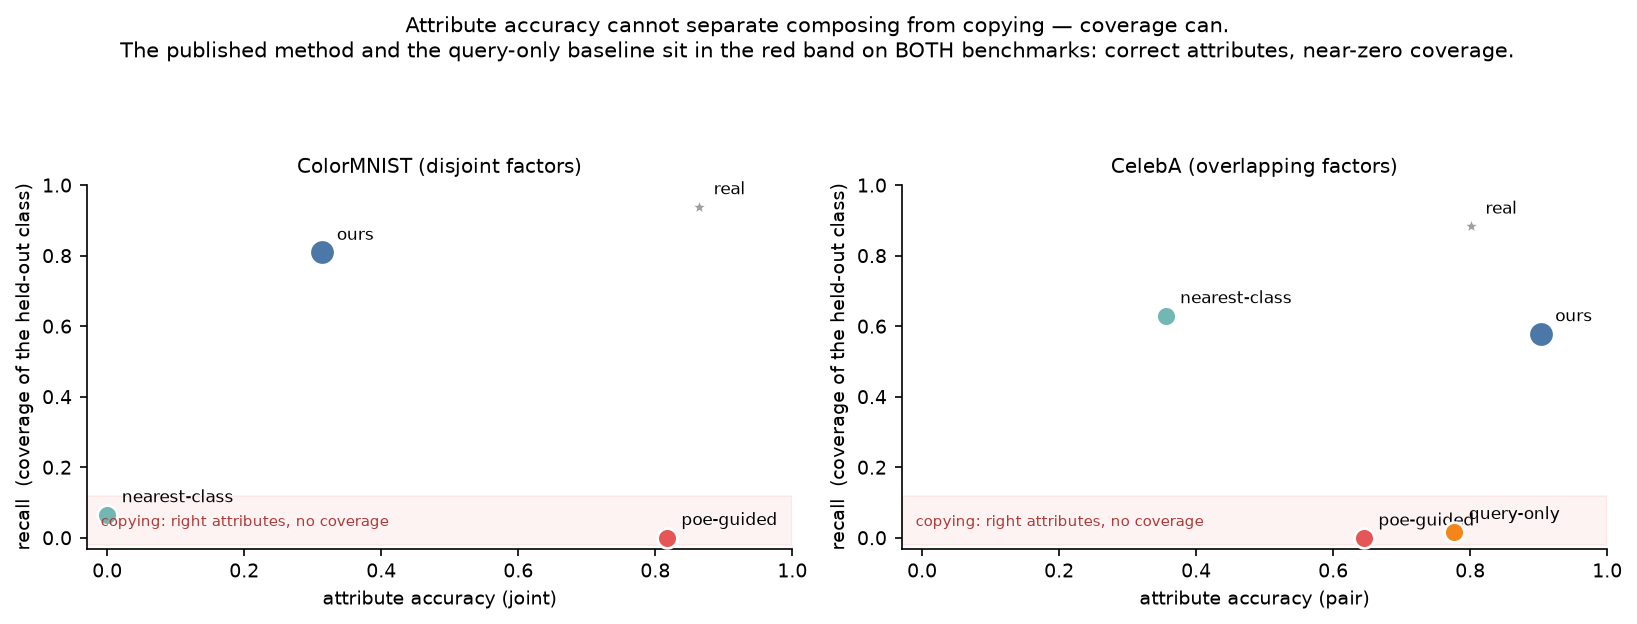
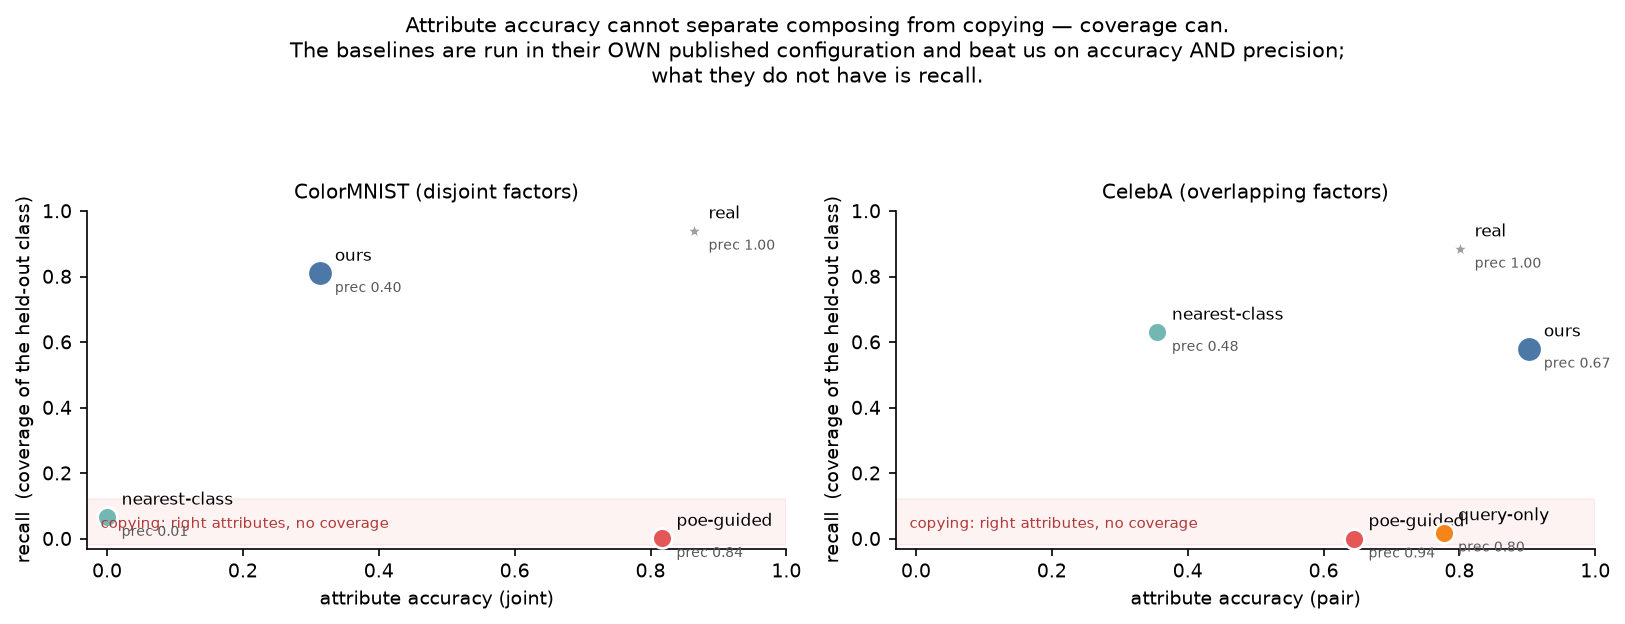
F2 annotates precision; case study and fairness check in the reproduction path
With the baseline in its own configuration the interesting number is no longer
just its recall but its PRECISION: 0.84 on ColorMNIST and 0.94 on CelebA.  Its
samples are plausible members of the target class.  F2 now prints precision beside
every point, so the figure says 'these baselines beat us on accuracy and on
precision, and sit at zero recall' rather than merely 'they are in the red band'.

README numbers re-verified against the regenerated aggregate: 7/7 match.

diff --git a/experiments/make_paper_figures.py b/experiments/make_paper_figures.py
@@ -139,13 +139,21 @@ def f2_coverage_vs_copying(A):
         ax.axhspan(-0.02, 0.12, color="#E45756", alpha=0.07, zorder=0)
         ax.text(0.02, 0.045, "copying: right attributes, no coverage", fontsize=7.2,
                 color="#B03A38", transform=ax.get_yaxis_transform(), va="center")
+        # precision annotated per point: the baselines are not merely accurate, their samples are
+        # PLAUSIBLE members of the class (precision 0.84 / 0.94).  Only coverage separates them.
+        for arm, _c in arms:
+            x_, y_ = m(tbl, arm, acc_key), m(tbl, arm, "recall")
+            pr = m(tbl, arm, "precision")
+            if np.isfinite(x_) and np.isfinite(y_) and np.isfinite(pr):
+                ax.annotate(f"prec {pr:.2f}", (x_, y_), textcoords="offset points",
+                            xytext=(7, -9), fontsize=6.5, color="0.35")
         ax.set_xlabel(f"attribute accuracy ({acc_key})")
         ax.set_ylabel("recall  (coverage of the held-out class)")
         ax.set_xlim(-0.03, 1.0); ax.set_ylim(-0.03, 1.0)
         ax.set_title(title, fontsize=9.5)
     fig.suptitle("Attribute accuracy cannot separate composing from copying — coverage can.\n"
-                 "The published method and the query-only baseline sit in the red band on BOTH "
-                 "benchmarks: correct attributes, near-zero coverage.", fontsize=10)
+                 "The baselines are run in their OWN published configuration and beat us on "
+                 "accuracy AND precision;\nwhat they do not have is recall.", fontsize=10)
     fig.tight_layout(rect=[0, 0, 1, 0.90])
     save(fig, "f2_coverage_vs_copying.png")
 
